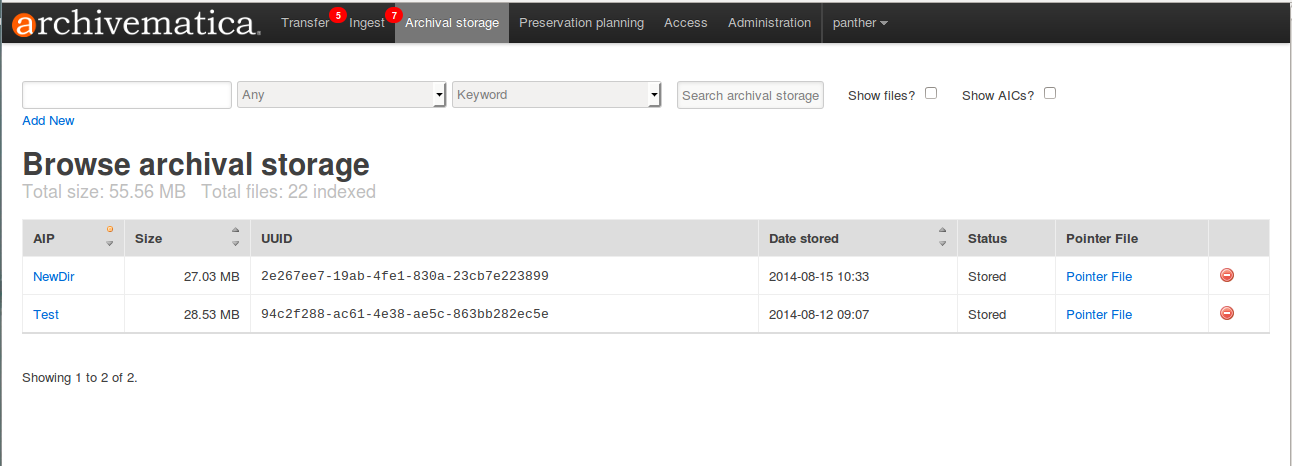
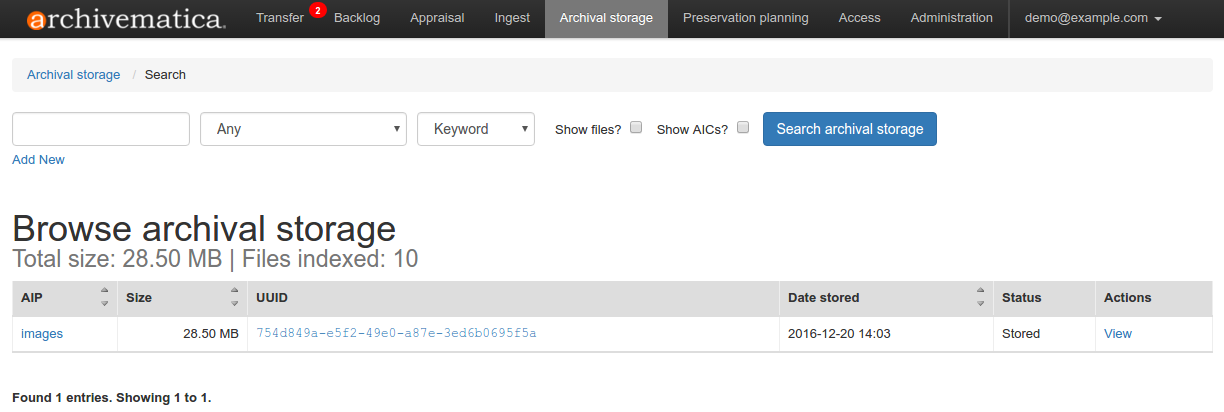
Updated Archival storage search, edited screenshots

diff --git a/user-manual/archival-storage/archival-storage.rst b/user-manual/archival-storage/archival-storage.rst
@@ -20,23 +20,29 @@ Should you run into an error during archival storage, please see
 Storing an AIP
 --------------
 
-1. Once ingest is complete, selecting a location to "Store AIP" in the Actions drop-down menu compresses and zips the AIP and moves it into Archival storage.
+#. Once ingest is complete, selecting a location to "Store AIP" in the Actions
+   drop-down menu compresses and zips the AIP and moves it into Archival storage.
 
-2. In the demo version of Archivematica the AIP storage directory is ``/sharedDirectoryStructure/www/AIPsStore/``. In other environments it can be a remote network mounted directory. If multiple AIP storage locations have been created in the Storage Service, each will appear in the Store AIP location dropdown, including LOCKSS locations.
+#. In the demo version of Archivematica the AIP storage directory is
+   ``/sharedDirectoryStructure/www/AIPsStore/``. In other environments it can be a
+   remote network mounted directory. If multiple AIP storage locations have been
+   created in the Storage Service, each will appear in the Store AIP location
+   dropdown, including LOCKSS locations.
 
-3. The AIP directories are broken down into UUID quad directories for efficient storage and retrieval.
+#. The AIP directories are broken down into UUID quad directories for efficient
+   storage and retrieval.
 
-.. note::
+   .. note::
 
-   Archivematica uses a directory tree structure to store AIPs.
-   The tree is based on AIP UUIDs, which are 16-digit alphanumeric unique universal
-   identifiers. Each UUID is broken down into a manageable 4-character chunk, or
-   "UUID quad". Each quad represents a directory. The first four characters (the
-   first UUID quad) of the AIP UUID will compose a subdirectory
-   of the AIP storage. The second UUID quad will be the name of a sub directory
-   of the first, and so on. The last four characters (the last UUID quad) are
-   used to create the leaf of the AIP store directory tree, and the AIP with
-   that UUID resides in that leaf.
+      Archivematica uses a directory tree structure to store AIPs.
+      The tree is based on AIP UUIDs, which are 16-digit alphanumeric unique universal
+      identifiers. Each UUID is broken down into a manageable 4-character chunk, or
+      "UUID quad". Each quad represents a directory. The first four characters (the
+      first UUID quad) of the AIP UUID will compose a subdirectory
+      of the AIP storage. The second UUID quad will be the name of a sub directory
+      of the first, and so on. The last four characters (the last UUID quad) are
+      used to create the leaf of the AIP store directory tree, and the AIP with
+      that UUID resides in that leaf.
 
 4. The Archival storage tab in the Archivematica dashboard consists of a table with information about the stored AIPs. Use the up and down arrows in the column headers to sort by AIP name, size, UUID, date stored or status. Note that at the top of the table is the total size of the stored AIPs and the number of indexed files.
 
@@ -60,35 +66,34 @@ Storing an AIP
 Searching the AIP store
 -----------------------
 
-
 To search the AIP index, use the search bar at the top of the screen.
 
-  * The index includes the AIP names and METS contents.
-  * Search results show AIPs and AIP parts with their UUIDs and the ability
-    to click on the raw ElasticSearch file and view it in another screen.
+* Use the first dropdown menu to select whether to search for the File UUID, File
+  path, File extension, AIP UUID, or AIP name.
+
+* Use the second dropdown menu to select whether to search by keyword, phrase, or date range.
+
+* Select *Show files?* to display discrete files in your results.
+
+* Select *Show AICs?* to display Archival Information Collections (aggregates of
+  of multiple AIPs) in your results.
 
 .. image:: images/SearchArchStor.*
    :align: center
    :width: 80%
    :alt: AIP storage search results
 
-Note that:
+The search index includes AIP names and METS contents. All METS metadata is indexed
+and searchable.
 
-* All METS metadata is indexed and searchable.
+Clicking on the name of an AIP will open the AIP information screen. From this screen,
+it's possible to upload an associated DIP, re-ingest the AIP, or delete the AIP
+as well as downloading the AIP or viewing the pointer file. Clicking on the name of an image will open the image in the browser.
 
-  * Use the first dropdown menu to search in: File UUID, File path, File
-    extension, AIP UUID, and AIP name
-  * Use the second dropdown menu to search by keyword or phrase
-  * Click in the box next to the Show files? box to include files in your results
-
-* Clicking on search results allows for local download of the entire AIP.
-  Clicking on a file will result in opening the file if your browser has a
-  viewer, or downloading it if your browser does not.
-
-* By clicking on "View raw" next to a search result, you can also view the raw
-  JSON data that contains the METS data, the Archivematica version that
-  generated the data, the AIP UUID, the time indexing occurred, and the
-  relative file path within the AIP.
+By clicking on "View raw" next to a search result, you can also view the raw
+JSON data that contains the METS data, the Archivematica version that
+generated the data, the AIP UUID, the time indexing occurred, and the
+relative file path within the AIP.
 
 .. _delete-aip:
 
